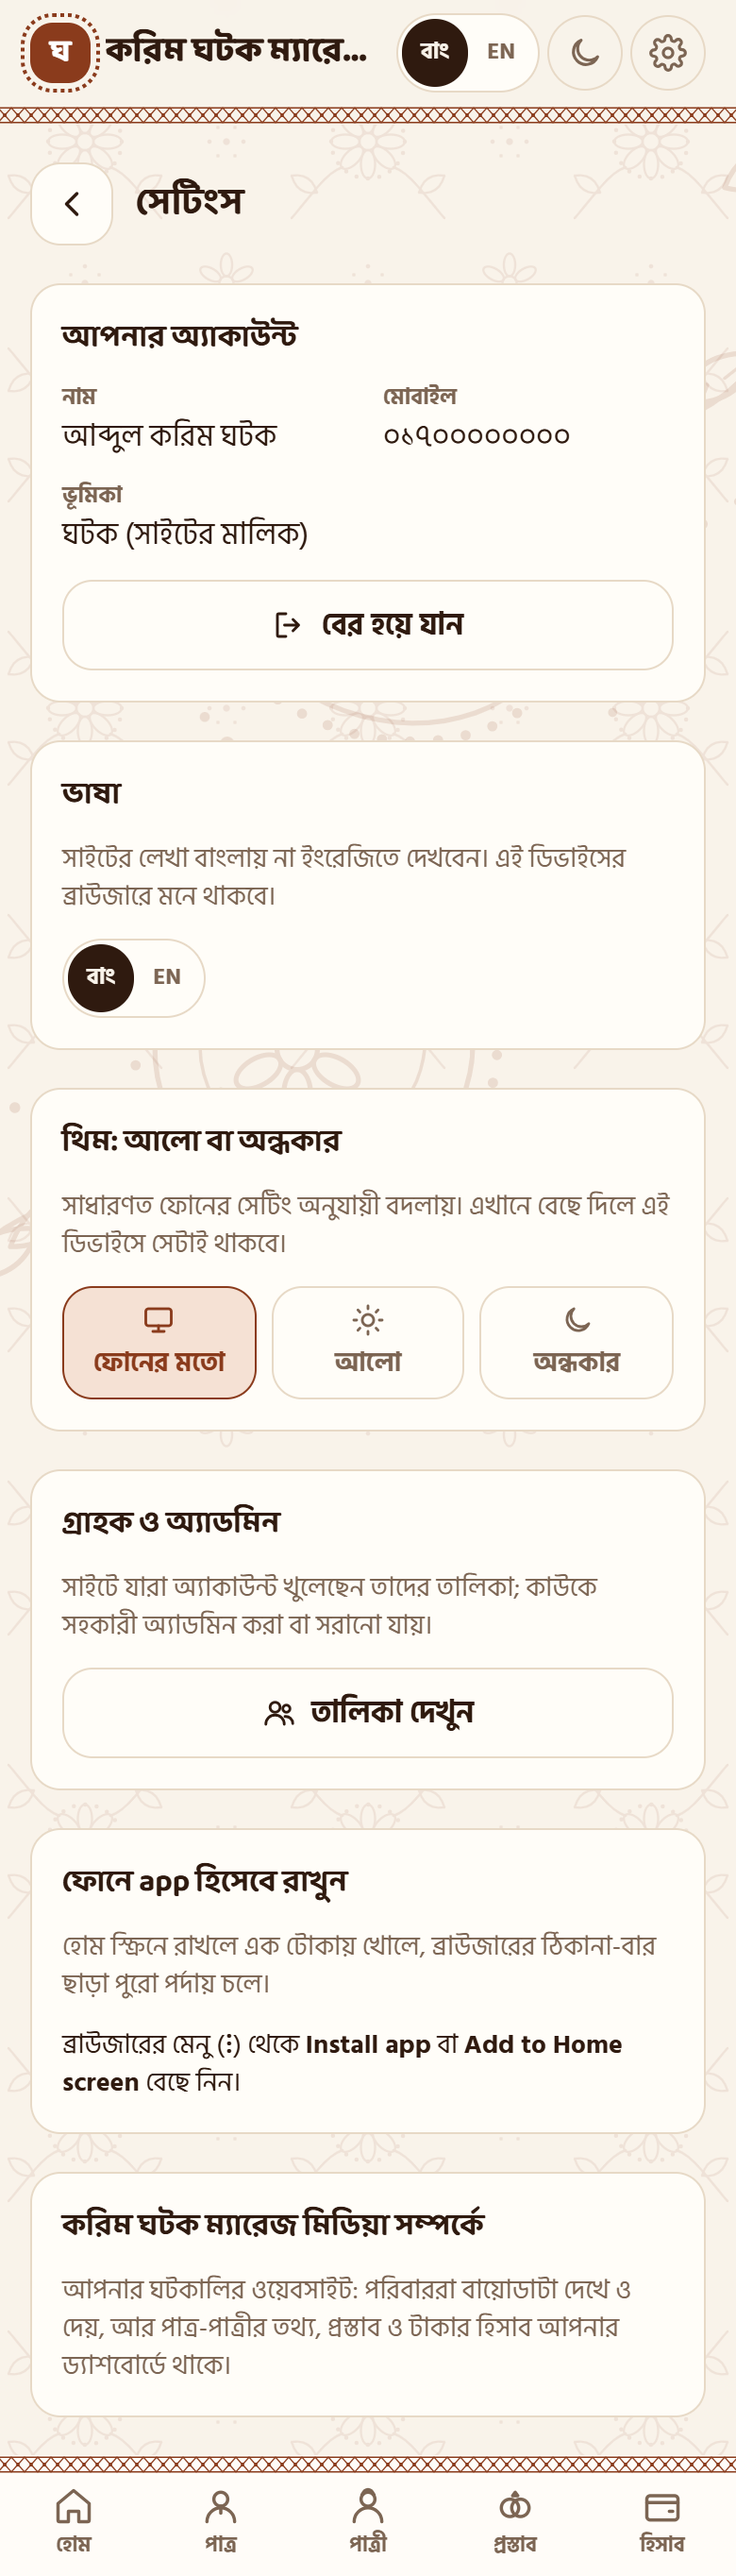
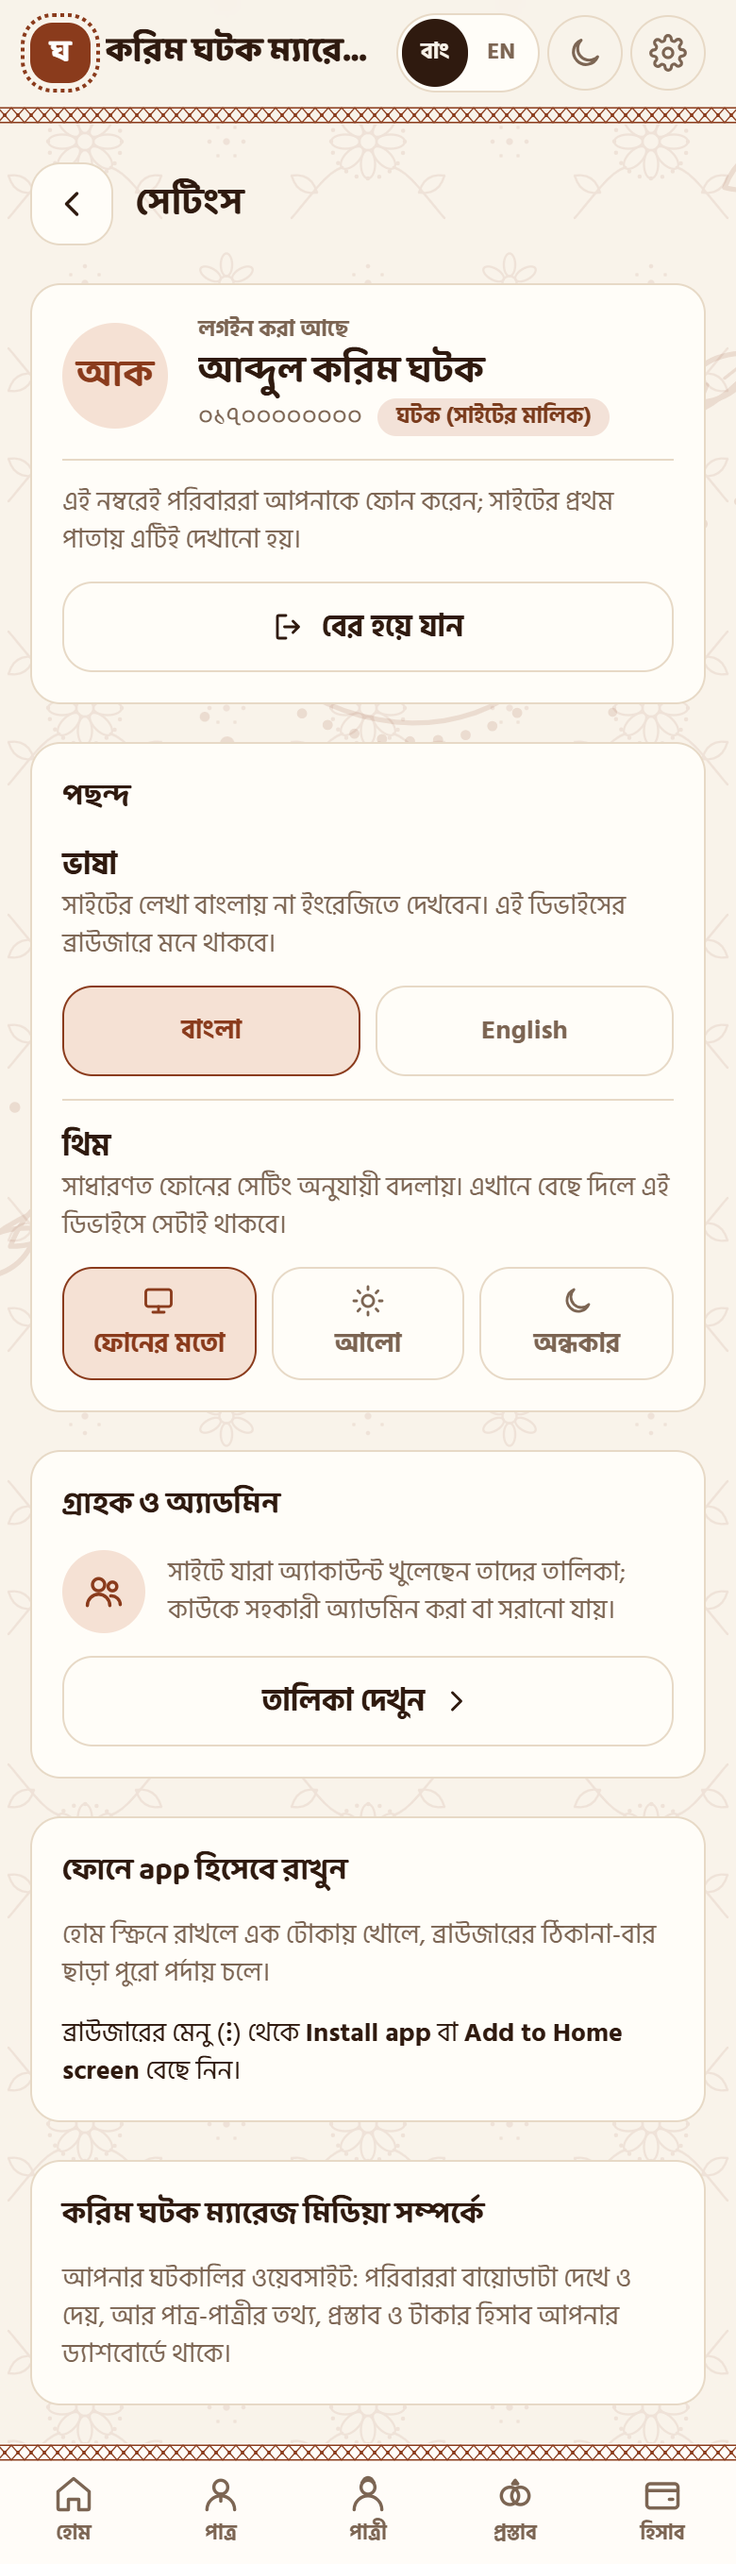
feat: a settings page that reads like one
The account card leads with who is signed in (initials, name, number, a
role badge) and a line that says what to do about the password, with
log-out as a quiet button beside it. Language and theme sit together
under "পছন্দ" as two labelled choices, the language one with full names.
A family also gets the ghotok's name and call/WhatsApp buttons here.
On a wide screen the cards fall into two columns instead of one narrow
strip; the install button no longer shouts. Screenshots refreshed.

diff --git a/app/(app)/settings/page.tsx b/app/(app)/settings/page.tsx
@@ -1,49 +1,117 @@
 import type { Metadata } from "next";
 import Link from "next/link";
+import type { ReactNode } from "react";
 import { Icon } from "@/components/icons";
-import { LangSwitch } from "@/components/lang-switch";
+import { LangChoice } from "@/components/lang-switch";
 import { InstallCard } from "@/components/pwa";
-import { ThemeCard } from "@/components/theme";
-import { Card, Facts, PageHeader, quietButton } from "@/components/ui";
+import { ContactButtons } from "@/components/site";
+import { ThemeChoice } from "@/components/theme";
+import { Badge, Card, PageHeader, quietButton, type Tone } from "@/components/ui";
 import { logoutAction } from "@/lib/auth/actions";
 import { homeFor, requireSite, requireUser } from "@/lib/auth/session";
+import { initials } from "@/lib/bn";
+import { getDb } from "@/lib/db";
 import { getT } from "@/lib/i18n/server";
+import { publicSite } from "@/lib/services/site";
 
 export async function generateMetadata(): Promise<Metadata> {
   const { t } = await getT();
   return { title: t("common.settings") };
 }
 
+/**
+ * Settings for either role. Phone: one column, account first, then preferences, then the app and about cards.
+ * Web: the same cards in two columns, the account and preferences on the left, the app and about on the right.
+ */
 export default async function SettingsPage() {
   const [user, site, T] = await Promise.all([requireUser(), requireSite(), getT()]);
   const { t } = T;
   const owner = user.id === site.ghotokId;
+  // a family gets the ghotok's number here too, since this is where they come looking for help
+  const pub = user.role === "customer" ? await publicSite(getDb()) : null;
+  const role: { label: string; tone: Tone } =
+    user.role !== "admin" ? { label: t("st.roleCustomer"), tone: "mint" }
+    : owner ? { label: t("st.roleOwner"), tone: "lilac" }
+    : { label: t("st.roleAdmin"), tone: "sky" };
+  const hint = user.role === "customer" ? t("st.passwordHint") : owner ? t("st.ownerPhoneHint") : null;
+
   return (
     <>
       <PageHeader title={t("common.settings")} back={homeFor(user.role)} />
-      <div className="flex flex-col gap-5 lg:max-w-2xl">
-        <Card title={t("st.account")}>
-          <Facts items={[[t("st.name"), user.name], [t("st.phone"), T.n(user.phone)], [t("st.role"), user.role === "admin" ? (owner ? t("st.roleOwner") : t("st.roleAdmin")) : t("st.roleCustomer")]]} />
-          <form action={logoutAction}>
-            <button type="submit" className={`${quietButton} w-full`}><Icon name="logout" size={18} />{t("st.logout")}</button>
-          </form>
-        </Card>
-        <Card title={t("st.language")}>
-          <p className="text-sm text-muted">{t("st.languageText")}</p>
-          <LangSwitch className="self-start" />
-        </Card>
-        <ThemeCard />
-        {user.role === "admin" ? (
-          <Card title={t("cu.title")}>
-            <p className="text-sm text-muted">{t("st.customersText")}</p>
-            <Link href="/dashboard/customers" className={quietButton}><Icon name="people" size={18} />{t("st.customersLink")}</Link>
+      <div className="flex flex-col gap-5 lg:grid lg:grid-cols-[minmax(0,1fr)_22rem] lg:items-start lg:gap-8">
+        <div className="flex flex-col gap-5">
+          <Card>
+            <div className="flex items-center gap-4">
+              <span aria-hidden className="grid size-14 shrink-0 place-items-center rounded-full bg-primary-soft font-display text-xl font-bold text-primary">{initials(user.name)}</span>
+              <div className="min-w-0 flex-1">
+                <p className="text-xs font-bold text-muted">{t("st.signedIn")}</p>
+                <p className="truncate font-display text-xl font-bold">{user.name}</p>
+                {/* the role sits beside the number, so a long name keeps the whole width on a phone */}
+                <p className="flex flex-wrap items-center gap-x-2 gap-y-1 text-sm text-muted">
+                  <span className="tabular-nums">{T.n(user.phone)}</span>
+                  <Badge tone={role.tone}>{role.label}</Badge>
+                </p>
+              </div>
+            </div>
+            <div className="flex flex-col gap-3 border-t border-line pt-3 lg:flex-row lg:items-center lg:justify-between">
+              {hint ? <p className="text-sm text-muted lg:max-w-md">{hint}</p> : <span />}
+              <form action={logoutAction} className="flex lg:shrink-0">
+                <button type="submit" className={`${quietButton} w-full lg:w-auto`}><Icon name="logout" size={18} />{t("st.logout")}</button>
+              </form>
+            </div>
           </Card>
-        ) : null}
-        <InstallCard />
-        <Card title={t("st.aboutTitle", { site: site.name })}>
-          <p className="text-sm text-muted">{user.role === "admin" ? t("st.aboutAdmin") : t("st.aboutCustomer")}</p>
-        </Card>
+
+          <Card title={t("st.prefs")}>
+            <Pref label={t("st.language")} text={t("st.languageText")}><LangChoice /></Pref>
+            <hr className="border-line" />
+            <Pref label={t("theme.aria")} text={t("theme.text")}><ThemeChoice /></Pref>
+          </Card>
+
+          {user.role === "admin" ? (
+            <Card title={t("cu.title")}>
+              <div className="flex flex-col gap-3 lg:flex-row lg:items-center lg:justify-between">
+                <div className="flex items-center gap-3">
+                  <span aria-hidden className="grid size-11 shrink-0 place-items-center rounded-full bg-primary-soft text-primary"><Icon name="people" size={22} /></span>
+                  <p className="text-sm text-muted">{t("st.customersText")}</p>
+                </div>
+                <Link href="/dashboard/customers" className={`${quietButton} lg:shrink-0`}>{t("st.customersLink")}<Icon name="chevronRight" size={18} /></Link>
+              </div>
+            </Card>
+          ) : null}
+        </div>
+
+        <div className="flex flex-col gap-5">
+          <InstallCard />
+          <Card title={t("st.aboutTitle", { site: site.name })}>
+            <p className="text-sm text-muted">{user.role === "admin" ? t("st.aboutAdmin") : t("st.aboutCustomer")}</p>
+            {pub ? (
+              <>
+                <div className="flex items-center gap-3 border-t border-line pt-3">
+                  <span aria-hidden className="grid size-11 shrink-0 place-items-center rounded-full bg-primary-soft font-display text-base font-bold text-primary">ঘ</span>
+                  <div className="min-w-0">
+                    <p className="truncate font-bold">{pub.ghotokName}</p>
+                    <p className="truncate text-sm text-muted">{pub.address ?? pub.name}</p>
+                  </div>
+                </div>
+                <ContactButtons phone={pub.phone} whatsapp={pub.whatsapp} t={T} />
+              </>
+            ) : null}
+          </Card>
+        </div>
       </div>
     </>
+  );
+}
+
+/** One preference: its name and a line of help on the left (above, on a phone), the control on the right. */
+function Pref({ label, text, children }: { label: string; text: string; children: ReactNode }) {
+  return (
+    <div className="flex flex-col gap-3 lg:grid lg:grid-cols-[14rem_minmax(0,1fr)] lg:items-start lg:gap-6">
+      <div>
+        <p className="font-bold">{label}</p>
+        <p className="text-sm text-muted">{text}</p>
+      </div>
+      {children}
+    </div>
   );
 }

diff --git a/components/theme.tsx b/components/theme.tsx
@@ -3,7 +3,6 @@
 import { usePathname } from "next/navigation";
 import { useEffect, useSyncExternalStore } from "react";
 import { Icon, type IconName } from "./icons";
-import { Card } from "./ui";
 import { useT } from "@/lib/i18n/client";
 import { THEMES, THEME_KEY, applyTheme, isTheme, type Theme } from "@/lib/theme";
 
@@ -82,24 +81,21 @@ export function ThemeButton({ className = "" }: { className?: string }) {
 
 const ICONS: Record<Theme, IconName> = { system: "monitor", light: "sun", dark: "moon" };
 
-/** Settings card: follow the phone, or fix light or dark on this device. */
-export function ThemeCard() {
+/** The settings page's choice: follow the phone, or fix light or dark on this device. */
+export function ThemeChoice() {
   const { theme, setTheme } = useTheme();
   const { t } = useT();
   return (
-    <Card title={t("theme.title")}>
-      <p className="text-sm text-muted">{t("theme.text")}</p>
-      <div role="radiogroup" aria-label={t("theme.aria")} className="grid grid-cols-3 gap-2">
-        {THEMES.map((th) => {
-          const on = theme === th.value;
-          return (
-            <button key={th.value} type="button" role="radio" aria-checked={on} onClick={() => setTheme(th.value)}
-              className={`flex min-h-12 flex-col items-center justify-center gap-1 rounded-2xl border px-2 py-2 text-sm font-bold sm:flex-row sm:gap-2 sm:px-3 ${on ? "border-primary bg-primary-soft text-primary" : "border-line bg-surface text-muted"}`}>
-              <Icon name={ICONS[th.value]} size={18} />{t(`theme.${th.value}`)}
-            </button>
-          );
-        })}
-      </div>
-    </Card>
+    <div role="radiogroup" aria-label={t("theme.aria")} className="grid grid-cols-3 gap-2">
+      {THEMES.map((th) => {
+        const on = theme === th.value;
+        return (
+          <button key={th.value} type="button" role="radio" aria-checked={on} onClick={() => setTheme(th.value)}
+            className={`flex min-h-12 flex-col items-center justify-center gap-1 rounded-2xl border px-2 py-2 text-sm font-bold sm:flex-row sm:gap-2 sm:px-3 ${on ? "border-primary bg-primary-soft text-primary" : "border-line bg-surface text-muted hover:text-ink"}`}>
+            <Icon name={ICONS[th.value]} size={18} />{t(`theme.${th.value}`)}
+          </button>
+        );
+      })}
+    </div>
   );
 }

diff --git a/lib/i18n/dict.ts b/lib/i18n/dict.ts
@@ -618,6 +618,10 @@ export const bn = {
   "pwa.install": "ফোনে ইনস্টল করুন",
   "pwa.ios": "Safari-র নিচের **Share** বোতাম চাপুন, তারপর **Add to Home Screen** বেছে নিন।",
   "pwa.manual": "ব্রাউজারের মেনু (**⋮**) থেকে **Install app** বা **Add to Home screen** বেছে নিন।",
+  "st.prefs": "পছন্দ",
+  "st.passwordHint": "পাসওয়ার্ড বদলাতে বা ভুলে গেলে ঘটককে ফোন করুন; উনি নতুন পাসওয়ার্ড দিয়ে দেবেন।",
+  "st.ownerPhoneHint": "এই নম্বরেই পরিবাররা আপনাকে ফোন করেন; সাইটের প্রথম পাতায় এটিই দেখানো হয়।",
+  "st.signedIn": "লগইন করা আছে",
 
   // messages from the server
   "err.not_found": "এটি খুঁজে পাওয়া যায়নি।",
@@ -1253,6 +1257,10 @@ export const en: Record<Key, string> = {
   "pwa.install": "Install on the phone",
   "pwa.ios": "In Safari, tap the **Share** button below, then choose **Add to Home Screen**.",
   "pwa.manual": "From the browser menu (**⋮**) choose **Install app** or **Add to Home screen**.",
+  "st.prefs": "Preferences",
+  "st.passwordHint": "To change or recover your password, call the ghotok; they will set a new one for you.",
+  "st.ownerPhoneHint": "Families call you on this number; the front page shows it.",
+  "st.signedIn": "Signed in",
 
   "err.not_found": "This could not be found.",
   "err.invalid_input": "Something is wrong in the form. Check the fields marked in red.",

diff --git a/components/lang-switch.tsx b/components/lang-switch.tsx
@@ -2,7 +2,7 @@
 
 import { setLangAction } from "@/lib/actions/lang";
 import { useT } from "@/lib/i18n/client";
-import { LANGS } from "@/lib/i18n";
+import { LANGS, type Lang } from "@/lib/i18n";
 
 const TONES = {
   /** on the page background and the bars */
@@ -23,6 +23,26 @@ export function LangSwitch({ className = "", tone = "default" }: { className?: s
           {l === "bn" ? "বাং" : "EN"}
         </button>
       ))}
+    </form>
+  );
+}
+
+const NAMES: Record<Lang, "lang.bn" | "lang.en"> = { bn: "lang.bn", en: "lang.en" };
+
+/** The settings page's version: two full-width choices with the languages' full names, styled like the theme choice. */
+export function LangChoice() {
+  const { lang, t } = useT();
+  return (
+    <form action={setLangAction} aria-label={t("lang.aria")} className="grid grid-cols-2 gap-2">
+      {LANGS.map((l) => {
+        const on = l === lang;
+        return (
+          <button key={l} type="submit" name="lang" value={l} aria-pressed={on} lang={l}
+            className={`flex min-h-12 items-center justify-center rounded-2xl border px-3 text-sm font-bold ${on ? "border-primary bg-primary-soft text-primary" : "border-line bg-surface text-muted hover:text-ink"}`}>
+            {t(NAMES[l])}
+          </button>
+        );
+      })}
     </form>
   );
 }

diff --git a/components/pwa.tsx b/components/pwa.tsx
@@ -2,7 +2,7 @@
 
 import { useEffect, useSyncExternalStore } from "react";
 import { Icon } from "./icons";
-import { Card, primaryButton } from "./ui";
+import { Card, outlineButton } from "./ui";
 import { richParts } from "@/lib/i18n";
 import { useT } from "@/lib/i18n/client";
 
@@ -84,7 +84,7 @@ export function InstallCard() {
         <>
           <p className="text-sm text-muted">{t("pwa.text")}</p>
           {state === "ready" ? (
-            <button type="button" onClick={install} className={primaryButton}><Icon name="plus" size={18} />{t("pwa.install")}</button>
+            <button type="button" onClick={install} className={outlineButton}><Icon name="plus" size={18} />{t("pwa.install")}</button>
           ) : state === "ios" ? (
             <p className="text-sm">{rich(t("pwa.ios"))}</p>
           ) : state === "manual" ? (
